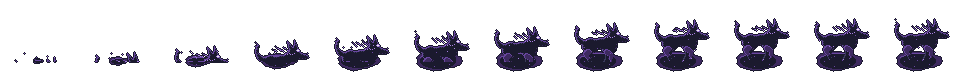
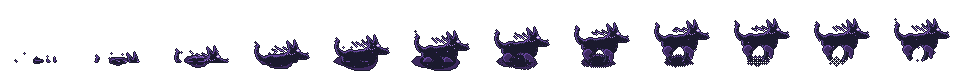
Gloom Hound: puddle shrinks away over the rise (and opens out over the melt), shadow cross-fades
Claude-Session: https://claude.ai/code/session_01J8LgTLVYzThXjNSRVhWqep

diff --git a/tools/sprites/generate.py b/tools/sprites/generate.py
@@ -6910,6 +6910,24 @@ def floor_clip(dst: Canvas, src: Canvas, down: int) -> None:
     dst.px = dst.img.load()
 
 
+def hound_puddle(c: Canvas, j: int) -> None:
+    """The puddle under the hound at rise frame `j` (0..HOUND_RISE_FRAMES-1; the melt plays this backwards): it opens out over
+    the first half, then from the halfway frame shrinks towards the hound's feet by ~30% per frame pair while a Bayer dither eats
+    it away (and thins its rim), so on the last rise frame nothing is left but the hound's own ground shadow (SpecialFx)."""
+    n = HOUND_RISE_FRAMES
+    half = n // 2
+    if j < half:
+        r, dith = 22 * min(1.0, (j + 1) / n * 2.2), 0.0
+    else:
+        r, dith = 22 * 0.7 ** ((j - half + 1) / 2), (j - half + 1) / (n - half)
+    pc = Canvas(96)
+    puddle_shape(pc, 30, HOUND_GROUND + 1, r, 0.3 + 0.1 * j, eyes=False, seed=5)
+    if dith > 0:
+        pc.img = dither_out(pc.img, min(1.0, dith), flip=j % 2 == 1)
+    c.img.alpha_composite(pc.img)
+    c.px = c.img.load()
+
+
 def hound_frame(kind: str, k: int) -> Image.Image:
     c = Canvas(96)
     g = HOUND_GROUND
@@ -6921,17 +6939,17 @@ def hound_frame(kind: str, k: int) -> Image.Image:
         hound_body(c, 0.9, jaw=open_, lunge=math.sin(t * math.pi), k=k)
     elif kind == "rise":
         u = (k + 1) / HOUND_RISE_FRAMES
-        # the puddle it comes out of, then the beast pushing up through it (what is below the floor line is not drawn)
-        puddle_shape(c, 30, g + 1, 22 * min(1.0, u * 2.2), 0.3, eyes=False, seed=5)
+        # the puddle it comes out of (shrinking away over the second half), then the beast pushing up through it
+        hound_puddle(c, k)
         body = Canvas(96)
         hound_body(body, 0.0, k=k)
         floor_clip(c, body, round((1 - min(1.0, u * 1.2)) ** 1.5 * 46))
         rng = random.Random(70 + k)
         for _ in range(4):
             sdot2(c, round(30 + rng.uniform(-20, 20)), round(g - rng.uniform(0, 8 + 20 * u)), rng.choice((VIOLET, VIOLET_L)))
-    else:  # melt: sinks back into the puddle, dithering away
+    else:  # melt: sinks back into a puddle that opens out under it (the rise's puddle, backwards), dithering away
         u = k / (HOUND_MELT_FRAMES - 1)
-        puddle_shape(c, 30, g + 1, 22 * (1 - u * u) + 3, 0.1 * k, eyes=False, seed=5)
+        hound_puddle(c, HOUND_RISE_FRAMES - 1 - k)
         body = Canvas(96)
         hound_body(body, 0.0)
         body.img = dither_out(body.img, u * 0.7, flip=k % 2 == 1)
